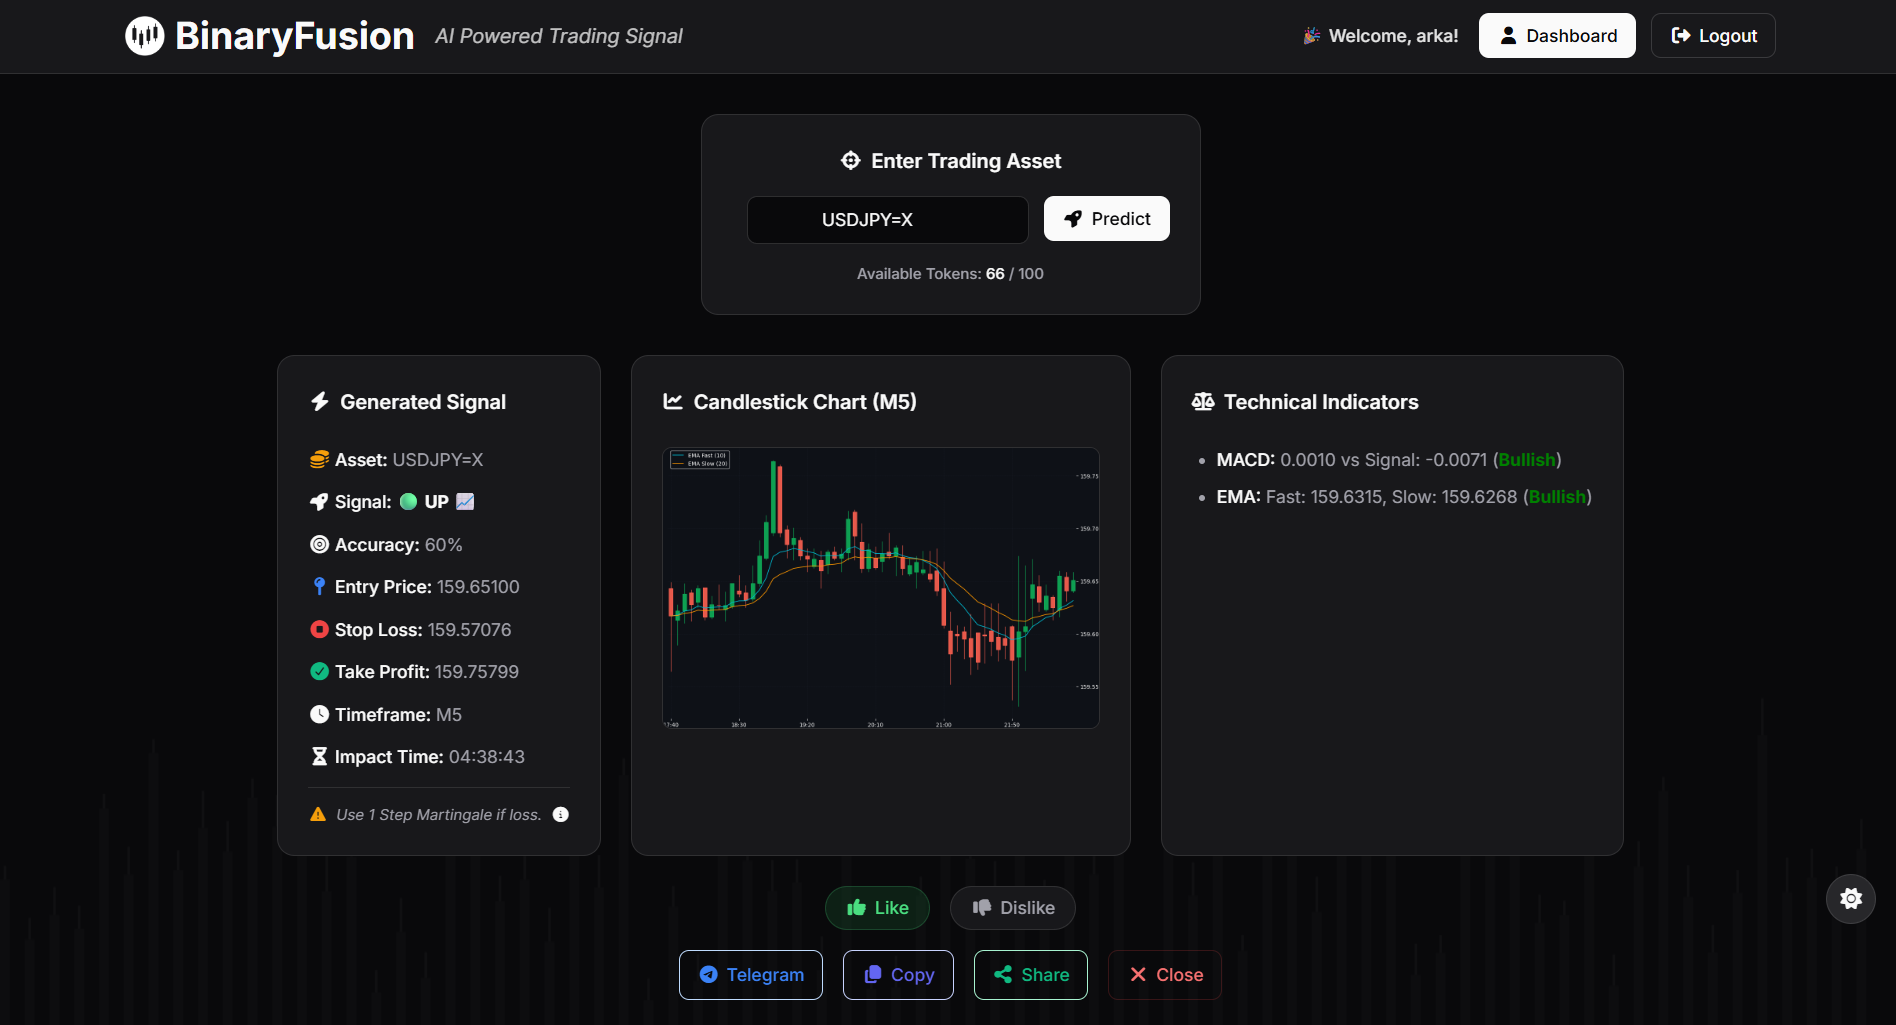
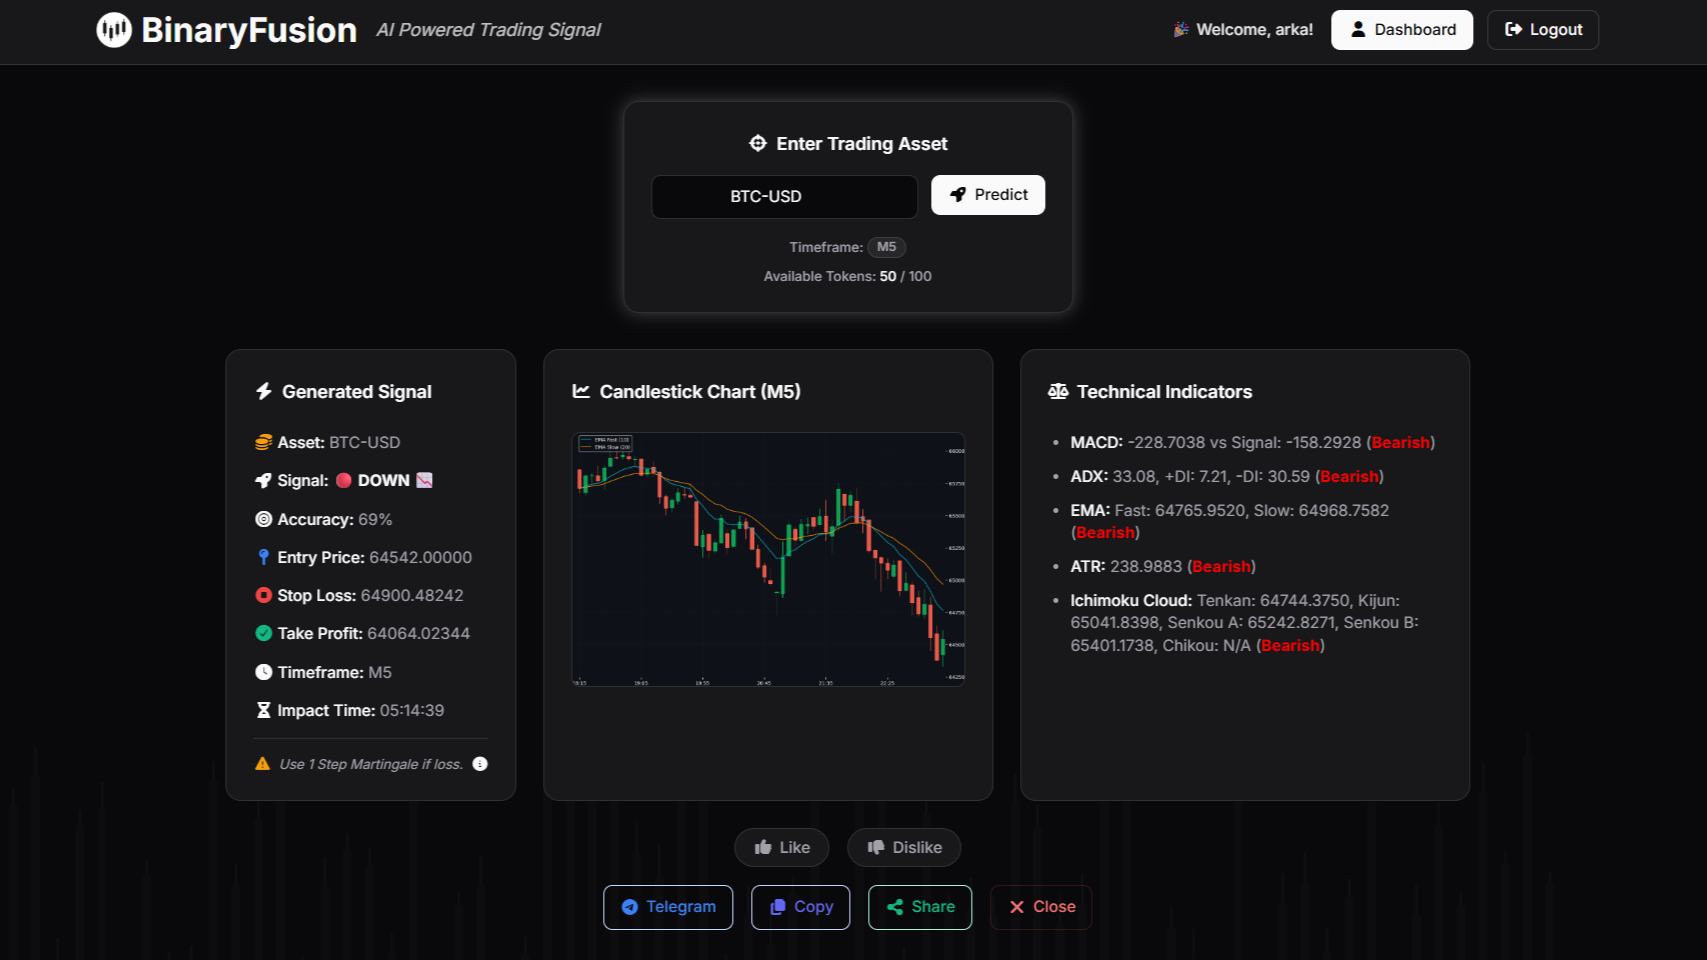
Add address bar text and update screenshots
Replace the simple placeholder bar in the UI preview with a styled address bar that includes a lock icon and the domain "binaryfusion.trade" (truncated/styled). Update related screenshots (demo.png, app_ss.png) and add a backup of the previous app screenshot as app_ss_old.png. These changes make the interface preview more realistic and informative.

diff --git a/templates/index.html b/templates/index.html
@@ -131,7 +131,10 @@
                     <div class="w-3 h-3 rounded-full bg-red-500"></div>
                     <div class="w-3 h-3 rounded-full bg-yellow-500"></div>
                     <div class="w-3 h-3 rounded-full bg-green-500"></div>
-                    <div class="ml-4 h-6 w-1/3 bg-white/5 rounded-md"></div>
+                    <div class="ml-4 h-6 w-1/3 bg-white/5 rounded-md flex items-center px-3">
+                        <i class="fa-solid fa-lock text-[10px] text-zinc-500 mr-2"></i>
+                        <span class="text-xs text-zinc-400 font-medium tracking-wide truncate">binaryfusion.trade</span>
+                    </div>
                 </div>
                 <img src="{% static 'images/demo.png' %}" class="rounded-lg opacity-80" alt="Interface Preview">
             </div>